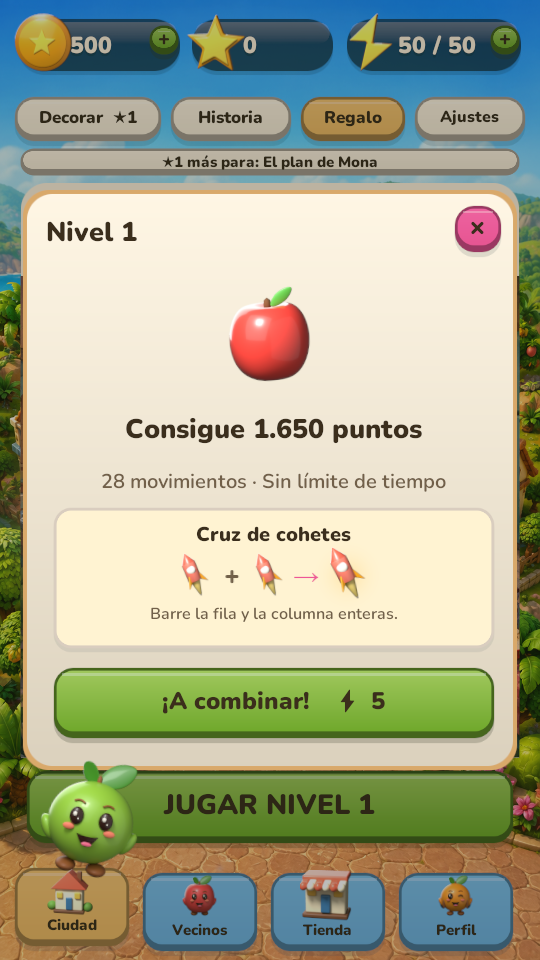
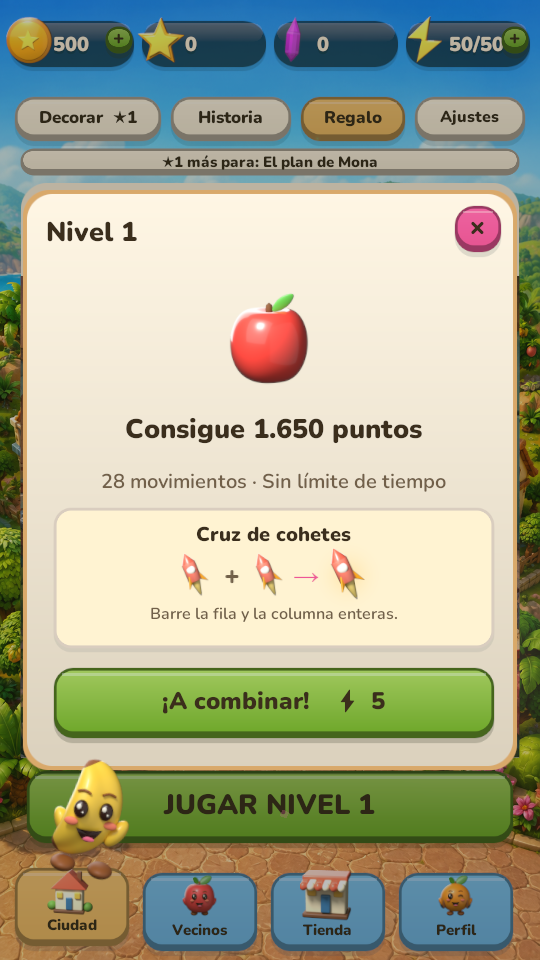
FrutiCity 2.2.0: registro de version
Etiqueta v2.2.0 en los dos repositorios. El codigo del juego va en el suyo
(FrutiCity/, commit ce4bd36).

2.2.0 y no 2.0.0: v2.0.0 y v2.1.0 ya estan etiquetadas y empujadas, y mover
una etiqueta publicada rompe el historial de quien ya la tenga descargada.

historia-y-cristales.md recoge ademas el rediseno del HUD de cuatro pildoras,
con las medidas y con la trampa pagada: un contador no puede ajustar linea, y
"50 / 50" salia partido en dos y medio fuera de la pildora.

diff --git a/docs/fruticity-2/historia-y-cristales.md b/docs/fruticity-2/historia-y-cristales.md
@@ -165,6 +165,20 @@ Seis caras y **sombreado plano**: en cuanto se suaviza, las facetas desaparecen 
 
 **Trampa pagada**: en la primera versión el alma interior estaba modelada **y no se veía un solo píxel de ella**, porque el cuerpo era opaco — geometría muerta que se renderiza para nada. El cuerpo pasa a translúcido por Fresnel (centro 0,72) y ahora se le ve el fondo, que es lo que hace que una gema parezca cara. Mismo truco que el hielo, y **la misma trampa**: `Facing` vale 0 mirando de frente y 1 en el canto, no al revés.
 
+## 2 sexies. El HUD de cuatro píldoras: hecho
+
+La fila pasó de tres a cuatro, y **no fue meter una más**. Las tres viejas medían 163, 143 y 176 px y ocupaban de 18 a 522 de los 540: no cabía nada. Se rehizo entera.
+
+- Píldoras de **126 px**: 4×126 + 3×6 de hueco = 522, con 9 de margen a cada lado.
+- Icono de 64 a **52 px**, número de cuerpo 23 a **20**.
+- Cifras acortadas por encima de diez mil: `12,3K` en vez de `12.400`. Por debajo se escribe entero, porque ahí cada moneda cuenta.
+
+Lo que **no** se tocó: el icono asomando por fuera del borde. Es lo que le da el aire de juego; meterlo dentro convierte la fila en una tabla de datos.
+
+**Trampa pagada:** los contadores no pueden ajustar línea. `UiKit.Label` lo hace por defecto, y con las píldoras estrechas «50 / 50» salió **partido en dos líneas**, medio fuera de la píldora. Ahora desbordan en horizontal —si un número no cabe, que asome— y el texto de rayos es `50/50` sin espacios.
+
+**El `+` sólo en monedas y rayos.** Estrellas y cristales se ganan jugando; ponerles un `+` sería prometer un atajo que no existe.
+
 ## 3. Lo que habría que construir
 
 En orden, y ninguno depende de cuentas ni credenciales:

diff --git a/docs/fruticity-2/CHANGELOG.md b/docs/fruticity-2/CHANGELOG.md
@@ -1,5 +1,20 @@
 # FrutiCity 2 — cambios
 
+## 2.2.0 — cristales, cuatro monedas y la historia enganchada
+
+`bundleVersion` 2.1.0 → **2.2.0**, `AndroidBundleVersionCode` 3 → 4. Etiqueta `v2.2.0` en los dos repositorios. Sigue siendo **estable y autónoma, sin Firebase**.
+
+- **Cristales morados**: reglas, arte 3D y contador. El saldo **se calcula en vez de guardarse**, así que la granja y el bloqueo son imposibles por construcción. Puertas de 6 con el bonus pagando 2 como mínimo — sin eso, la primera puerta encerraría al jugador de salida.
+- **El HUD pasa a cuatro píldoras.** No fue añadir una: las tres viejas ocupaban de 18 a 522 de los 540 y hubo que rehacer la fila entera.
+- **El gancho entre episodios**, que llevaba escrito en el contenido desde siempre y **no se leía en ningún sitio**. Era la causa de que cada capítulo pareciera empezar de la nada.
+- **Compras idempotentes** por transacción, con memoria en el guardado: antes cada reintento de la tienda regalaba el pack otra vez.
+- **Precios en euros escritos a mano, fuera.**
+- **Cuentas**: arquitectura lista, en modo invitado, esperando credenciales.
+
+**151/151 EditMode** y build de Windows correcto.
+
+Falta para que los cristales sean jugables: **la puerta de capítulo en el mapa** y **el modo bonus** de dos minutos.
+
 ## 2.1.0 — estable, autónoma, **sin Firebase**
 
 `bundleVersion` 2.0.0 → **2.1.0**, `AndroidBundleVersionCode` 2 → 3. Etiqueta `v2.1.0` en los dos repositorios (juego `00c7814`).
